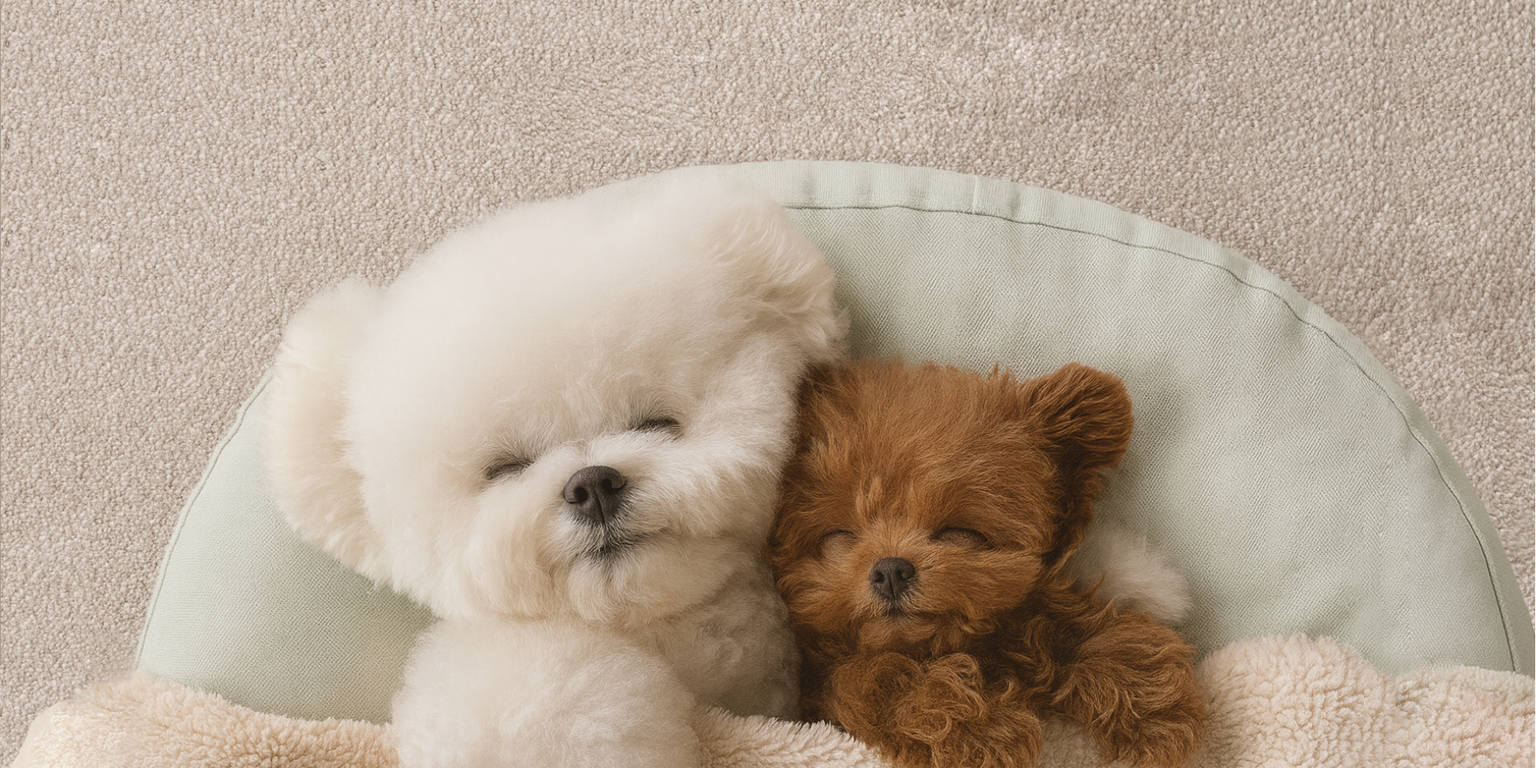
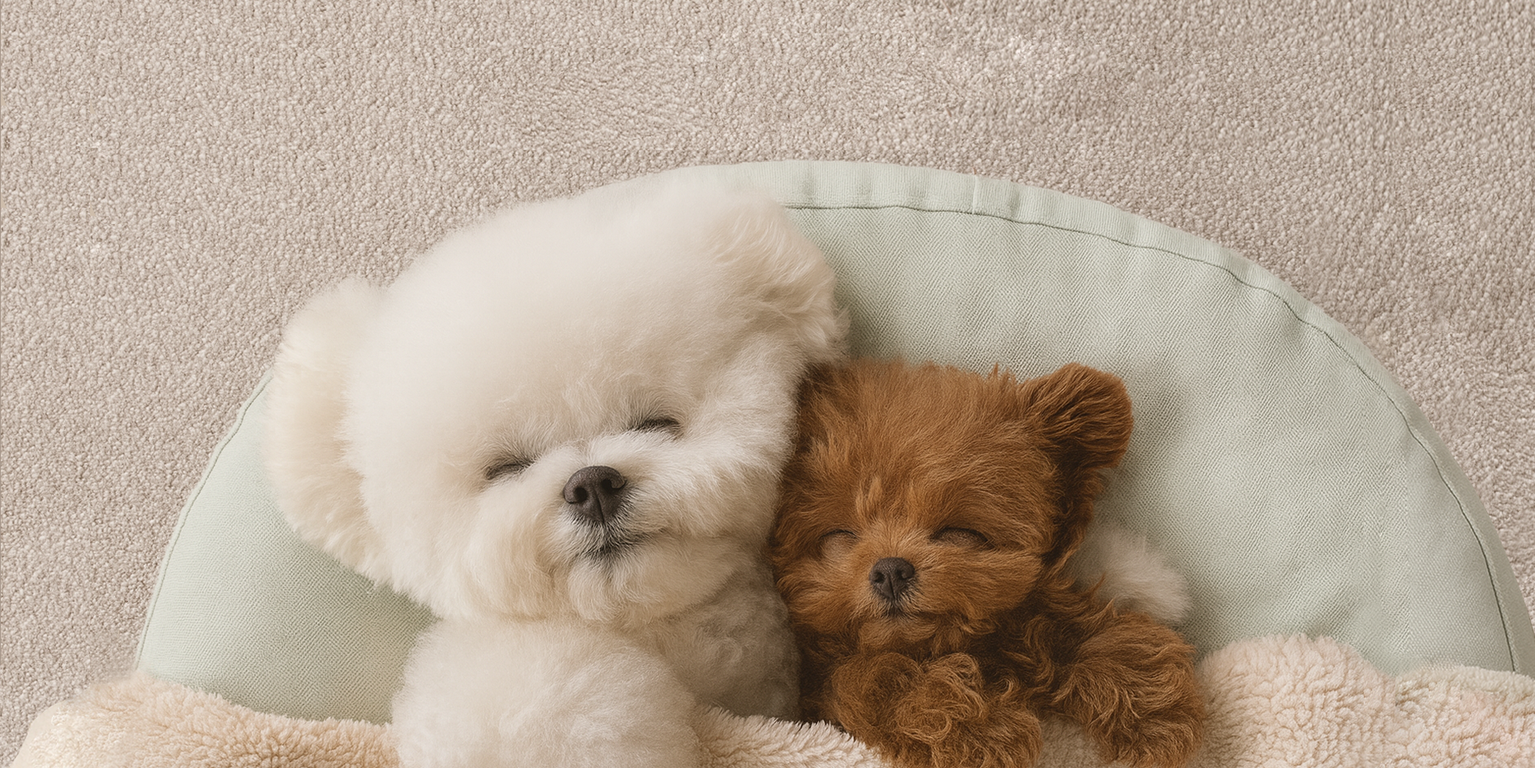
메인 비주얼 텍스트 조정/이미지변경

diff --git a/src/styles/main/_visual.scss b/src/styles/main/_visual.scss
@@ -14,11 +14,10 @@ $yellow: #ffda00;
 #main-visual {
   width: 100%;
   height: 100vh;
-  //
   position: relative;
   .main_headline {
     position: absolute;
-    top: 13%;
+    top: 20%;
     left: 50%;
     transform: translateX(-50%);
     z-index: 2;
@@ -36,7 +35,7 @@ $yellow: #ffda00;
     width: 100%;
     height: auto;
     z-index: 1;
-    mix-blend-mode: multiply;
+    // mix-blend-mode: multiply;
     transform: translateX(0%) translateY(0%);
   }
 }
@@ -53,7 +52,7 @@ $yellow: #ffda00;
   h1 {
     display: inline-block;
     width: 70%;
-    font-size: 6vw;
+    font-size: 4.0625vw;
     font-weight: 100;
   }
 }

diff --git a/src/components/main/Visual.jsx b/src/components/main/Visual.jsx
@@ -45,7 +45,7 @@ const Visual = () => {
     <section id="main-visual">
       <HeadLine />
       <figure className="intro" ref={introRef}>
-        <img src="/main/dog.png" alt="" />
+        <img src="/main/dog3.png" alt="" />
         <figcaption className="caption" ref={captionRef}></figcaption>
         <span className="overlay" ref={overlayRef}>
           <svg
